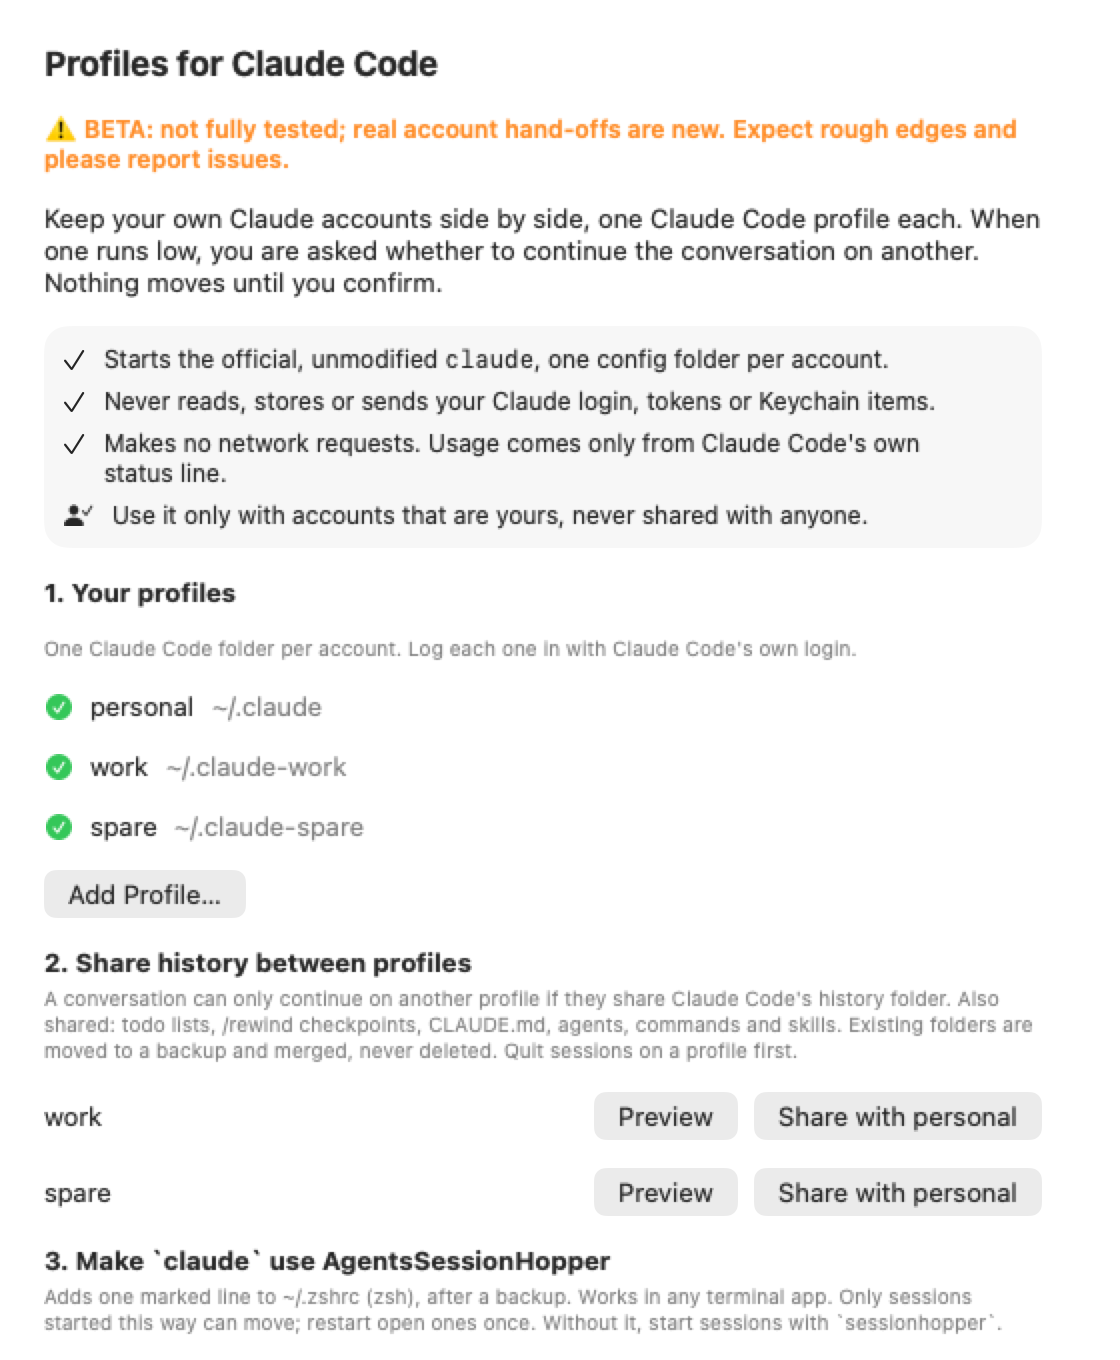
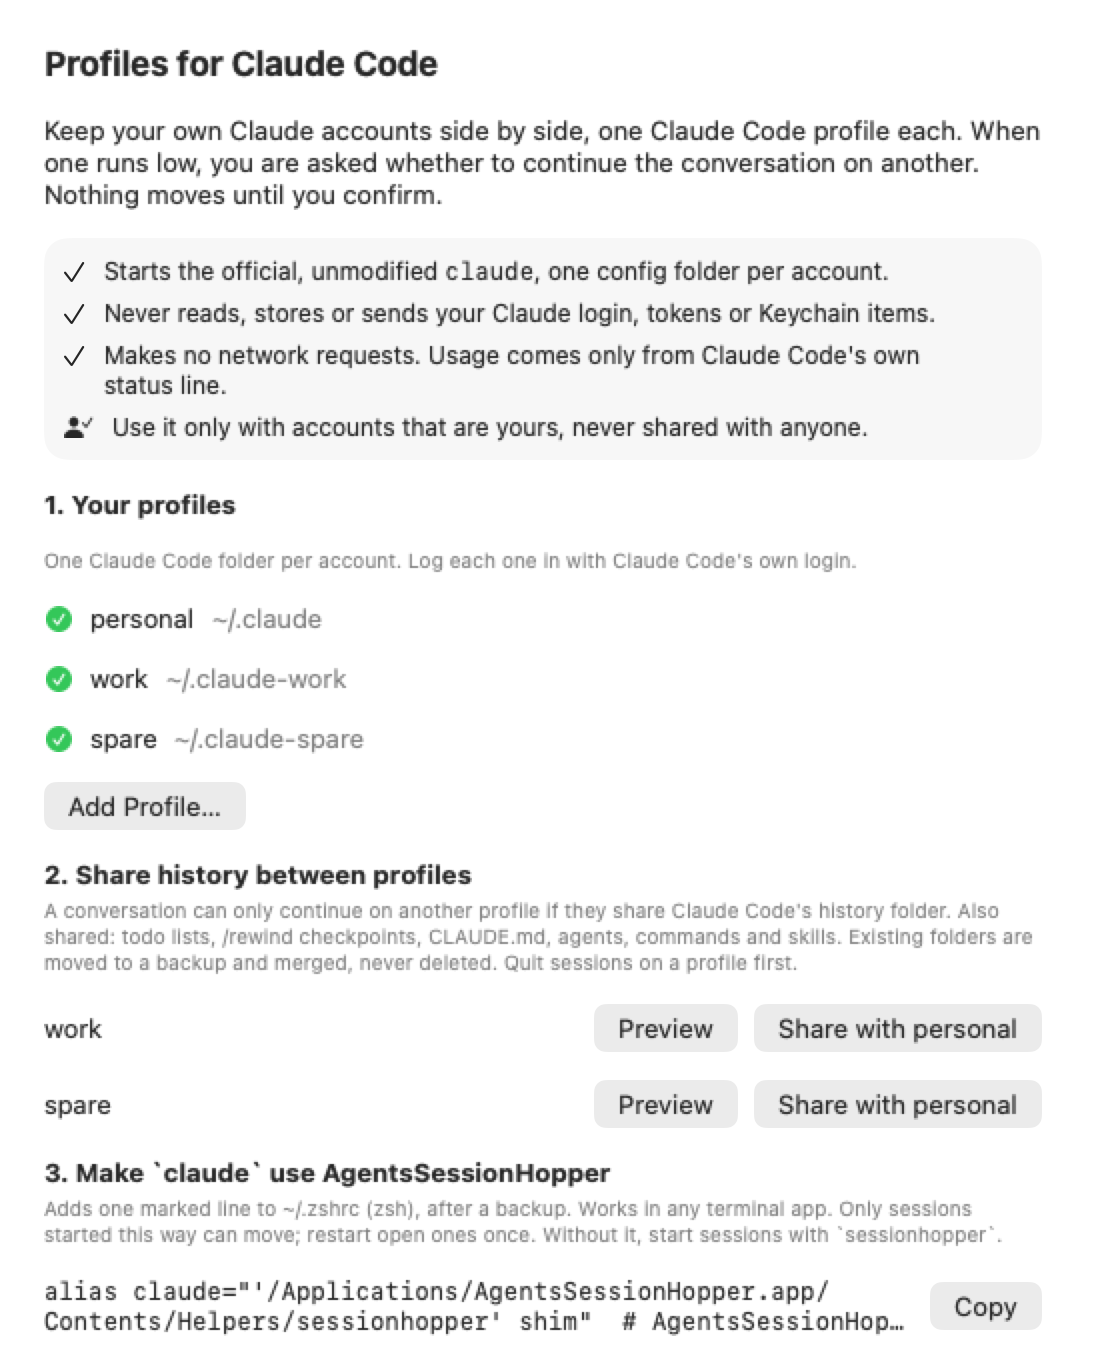
1.0.0: drop the BETA labels (#15)
Remove the BETA stage from the app (About, setup, popover, Settings), `sessionhopper --version`,
the README and the wiki; re-render the screenshots.

Changed region(s): [[0.0312, 0.0618, 0.9375, 0.9882], [0.6875, 0.8029, 0.9062, 0.8338]]

diff --git a/Sources/SessionHopperCore/Snapshot.swift b/Sources/SessionHopperCore/Snapshot.swift
@@ -36,9 +36,6 @@ public struct HopperSnapshot: Codable, Equatable, Sendable {
 
 public enum HopperInfo {
     public static let version = "1.0.0"
-    /// Shown next to the version everywhere until real-world hand-offs are proven.
-    public static let stage = "BETA"
-    public static let betaNotice = "BETA: not fully tested; real account hand-offs are new. Expect rough edges and please report issues."
     public static let repo = URL(string: "https://github.com/roypadina/AgentsSessionHopper")!
     public static let koFi = URL(string: "https://ko-fi.com/roypadina")!
     public static let disclaimer = "AgentsSessionHopper is an independent open-source tool. It is not made by, affiliated with, or endorsed by Anthropic. Claude and Claude Code are trademarks of Anthropic, PBC."

diff --git a/Sources/AgentsSessionHopper/AboutView.swift b/Sources/AgentsSessionHopper/AboutView.swift
@@ -29,9 +29,7 @@ struct AboutView: View {
 
             VStack(spacing: 2) {
                 Text("AgentsSessionHopper").font(.title.bold())
-                Text("Version \(HopperInfo.version) \(HopperInfo.stage)").font(.callout).foregroundStyle(.secondary)
-                Text(HopperInfo.betaNotice).font(.caption.bold()).foregroundStyle(.orange)
-                    .multilineTextAlignment(.center).fixedSize(horizontal: false, vertical: true)
+                Text("Version \(HopperInfo.version)").font(.callout).foregroundStyle(.secondary)
             }
 
             Text("Profiles for Claude Code. Keep your own accounts side by side, and when one runs low, continue the conversation on another with one click.")

diff --git a/Sources/AgentsSessionHopper/Onboarding.swift b/Sources/AgentsSessionHopper/Onboarding.swift
@@ -47,8 +47,6 @@ struct OnboardingView: View {
         ScrollView {
         VStack(alignment: .leading, spacing: 14) {
             Text("Profiles for Claude Code").font(.title2.bold())
-            Text("⚠ " + HopperInfo.betaNotice).font(.callout.bold()).foregroundStyle(.orange)
-                .fixedSize(horizontal: false, vertical: true)
             Text("Keep your own Claude accounts side by side, one Claude Code profile each. When one runs low, you are asked whether to continue the conversation on another. Nothing moves until you confirm.")
                 .fixedSize(horizontal: false, vertical: true)
 

diff --git a/Sources/AgentsSessionHopper/PopoverView.swift b/Sources/AgentsSessionHopper/PopoverView.swift
@@ -10,9 +10,6 @@ struct PopoverView: View {
         VStack(alignment: .leading, spacing: 12) {
             HStack {
                 Text("AgentsSessionHopper").font(.headline)
-                Text(HopperInfo.stage).font(.caption2.bold()).padding(.horizontal, 5).padding(.vertical, 1)
-                    .background(Capsule().fill(Color(red: 1, green: 0.84, blue: 0.04))).foregroundStyle(.black)
-                    .help(HopperInfo.betaNotice)
                 Spacer()
                 Button(action: openSettings) { Image(systemName: "gearshape") }
                     .buttonStyle(.borderless)

diff --git a/Sources/AgentsSessionHopper/SettingsView.swift b/Sources/AgentsSessionHopper/SettingsView.swift
@@ -374,7 +374,7 @@ private struct AboutSettings: View {
     var body: some View {
         Form {
             Section {
-                LabeledContent("AgentsSessionHopper", value: "Version \(HopperInfo.version) \(HopperInfo.stage)")
+                LabeledContent("AgentsSessionHopper", value: "Version \(HopperInfo.version)")
                 HStack {
                     Button("About…") { AboutWindow.show() }
                     Link("Support on Ko-fi ☕", destination: HopperInfo.koFi)

diff --git a/Sources/sessionhopper/main.swift b/Sources/sessionhopper/main.swift
@@ -491,7 +491,7 @@ func pluginCommand(_ a: [String]) -> Int32 {
     return rc
 }
 
-func versionCommand(_: [String]) -> Int32 { out("sessionhopper \(HopperInfo.version) (\(HopperInfo.stage))"); return 0 }
+func versionCommand(_: [String]) -> Int32 { out("sessionhopper \(HopperInfo.version)"); return 0 }
 
 let commands: [String: ([String]) -> Int32] = [
     "shim": shimCommand,

diff --git a/README.md b/README.md
@@ -1,10 +1,8 @@
 <div align="center">
 
-<img src="docs/brand/icon-beta.png" alt="AgentsSessionHopper app icon with a BETA ribbon" width="160">
+<img src="Assets/icons/AppIcon-1024.png" alt="AgentsSessionHopper app icon" width="160">
 
 # AgentsSessionHopper
-
-**⚠ BETA — not fully tested; real account hand-offs are new. Expect rough edges; please [report issues](https://github.com/roypadina/AgentsSessionHopper/issues).**
 
 ### Profiles for Claude Code. One conversation, any of your accounts.
 
@@ -19,7 +17,6 @@ another with one click. Nothing lost, nothing re-explained, and nothing moves un
 [![CI](https://github.com/roypadina/AgentsSessionHopper/actions/workflows/ci.yml/badge.svg)](https://github.com/roypadina/AgentsSessionHopper/actions/workflows/ci.yml)
 [![Website](https://img.shields.io/badge/website-apps.roypadina-2F62E6)](https://apps.roypadina.synology.me/apps/agents-session-hopper/)
 [![License: MIT](https://img.shields.io/badge/License-MIT-green.svg?logo=opensourceinitiative&logoColor=white)](LICENSE)
-[![Status: beta](https://img.shields.io/badge/status-BETA-FFD60A)](docs/ROADMAP.md)
 [![Ko-fi](https://img.shields.io/badge/Ko--fi-support-F16061?logo=ko-fi&logoColor=white)](https://ko-fi.com/roypadina)
 [![PRs welcome](https://img.shields.io/badge/PRs-welcome-brightgreen.svg)](CONTRIBUTING.md)
 

diff --git a/docs/wiki/Home.md b/docs/wiki/Home.md
@@ -1,8 +1,6 @@
 # AgentsSessionHopper
 
-<img src="https://raw.githubusercontent.com/roypadina/AgentsSessionHopper/main/docs/brand/icon-beta.png" alt="AgentsSessionHopper icon with a BETA ribbon" width="128">
-
-**⚠ BETA — not fully tested; real account hand-offs are new. Expect rough edges; please [report issues](https://github.com/roypadina/AgentsSessionHopper/issues).**
+<img src="https://raw.githubusercontent.com/roypadina/AgentsSessionHopper/main/Assets/icons/AppIcon-1024.png" alt="AgentsSessionHopper icon" width="128">
 
 **Profiles for Claude Code.** Keep your own Claude accounts side by side, one Claude Code profile each.
 When one runs low, continue the same conversation on another with one click. Nothing moves until you

diff --git a/CHANGELOG.md b/CHANGELOG.md
@@ -11,6 +11,10 @@ and this project adheres to [Semantic Versioning](https://semver.org/spec/v2.0.0
 
 First stable release: out of BETA.
 
+### Removed
+- The BETA labels: the version no longer carries "BETA" in the app, the About and setup windows, the
+  popover, `sessionhopper --version`, the README and the wiki.
+
 ### Added
 - **Wait for a reset instead of stopping.** When a park leaves no profile to run on without paid usage,
   the session now waits for the first known usage-window reset (plus a minute, so it never lands before

diff --git a/docs/wiki/_Footer.md b/docs/wiki/_Footer.md
@@ -1,1 +1,1 @@
-[AgentsSessionHopper](https://github.com/roypadina/AgentsSessionHopper) · MIT © Roy Padina · **BETA** · Not affiliated with Anthropic · [More Mac apps](https://apps.roypadina.synology.me/) · [Support on Ko-fi ☕](https://ko-fi.com/roypadina)
+[AgentsSessionHopper](https://github.com/roypadina/AgentsSessionHopper) · MIT © Roy Padina · Not affiliated with Anthropic · [More Mac apps](https://apps.roypadina.synology.me/) · [Support on Ko-fi ☕](https://ko-fi.com/roypadina)

diff --git a/docs/wiki/_Sidebar.md b/docs/wiki/_Sidebar.md
@@ -1,7 +1,5 @@
 ### AgentsSessionHopper
 
-**⚠ BETA** — please [report issues](https://github.com/roypadina/AgentsSessionHopper/issues).
-
 - [Home](Home)
 - [Installation](Installation)
 - [Getting started](Getting-started)
